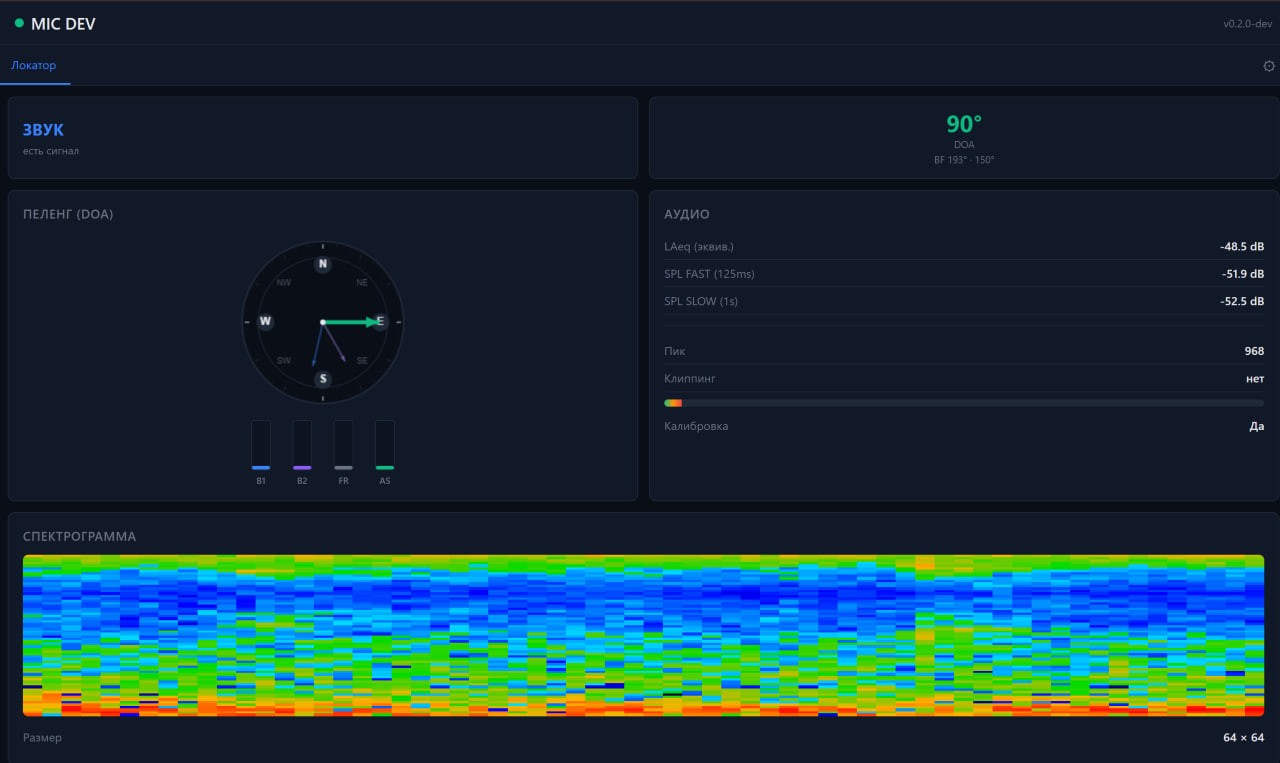
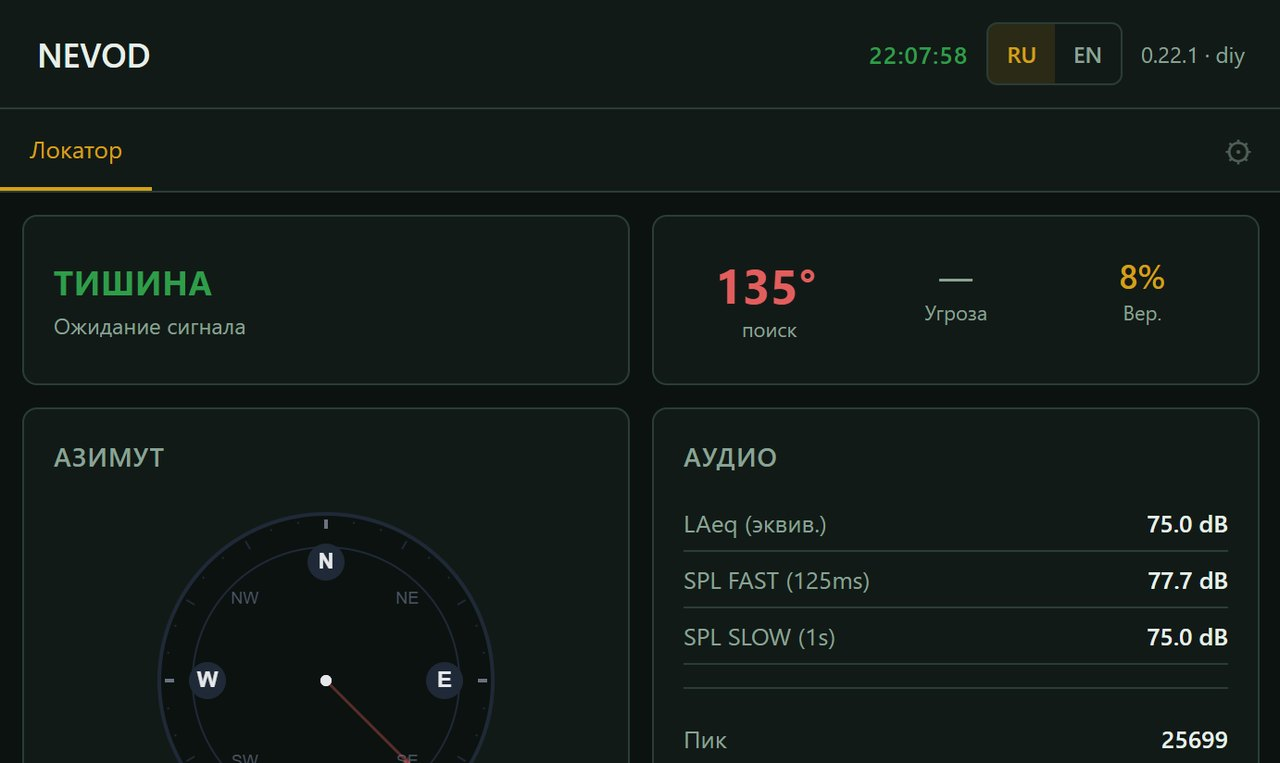
fix(landing): убрать лайм и старый синий снимок узла
Кадр на странице был интерфейсом в синем. Теперь тот же ночной вид, что у узла.

diff --git a/docs/assets/site.css b/docs/assets/site.css
@@ -48,7 +48,7 @@ a {
 }
 
 a:hover {
-  color: #e4ff7a;
+  color: #e7c15a;
 }
 
 code {
@@ -83,7 +83,7 @@ code {
   gap: 0.75rem;
   min-height: 3.25rem;
   padding: 0.5rem 1rem;
-  background: rgba(10, 18, 16, 0.94);
+  background: rgba(12, 18, 16, 0.94);
   border-bottom: 1px solid var(--line);
   backdrop-filter: blur(10px);
 }
@@ -332,7 +332,7 @@ code {
   color: var(--ink);
 }
 .btn:hover {
-  background: #d8f45c;
+  background: #e7c15a;
   color: var(--ink);
 }
 .btn-primary {
@@ -566,10 +566,10 @@ code {
 .ports td {
   text-align: left;
   padding: 0.45rem 0.6rem;
-  border-bottom: 1px solid rgba(200, 232, 74, 0.15);
+  border-bottom: 1px solid rgba(212, 160, 23, 0.22);
 }
 .ports th {
-  color: #8fa094;
+  color: var(--muted);
   font-weight: 600;
 }
 .dfu-progress {
@@ -592,7 +592,7 @@ code {
 #dfu-status {
   min-height: 1.4em;
   font-size: 0.9rem;
-  color: #8fa094;
+  color: var(--muted);
 }
 code.cmd {
   display: block;
@@ -603,5 +603,5 @@ code.cmd {
 .flash-section + .flash-section {
   margin-top: 2rem;
   padding-top: 1.5rem;
-  border-top: 1px solid rgba(200, 232, 74, 0.12);
+  border-top: 1px solid rgba(212, 160, 23, 0.18);
 }

diff --git a/docs/index.html b/docs/index.html
@@ -39,7 +39,7 @@
   <link rel="preconnect" href="https://fonts.googleapis.com" />
   <link rel="preconnect" href="https://fonts.gstatic.com" crossorigin />
   <link href="https://fonts.googleapis.com/css2?family=Instrument+Sans:wght@400;600;700&display=swap" rel="stylesheet" />
-  <link rel="stylesheet" href="assets/site.css" />
+  <link rel="stylesheet" href="assets/site.css?v=0.22.1" />
   <script type="module" src="https://unpkg.com/esp-web-tools@10/dist/web/install-button.js?module"></script>
 </head>
 <body class="home">
